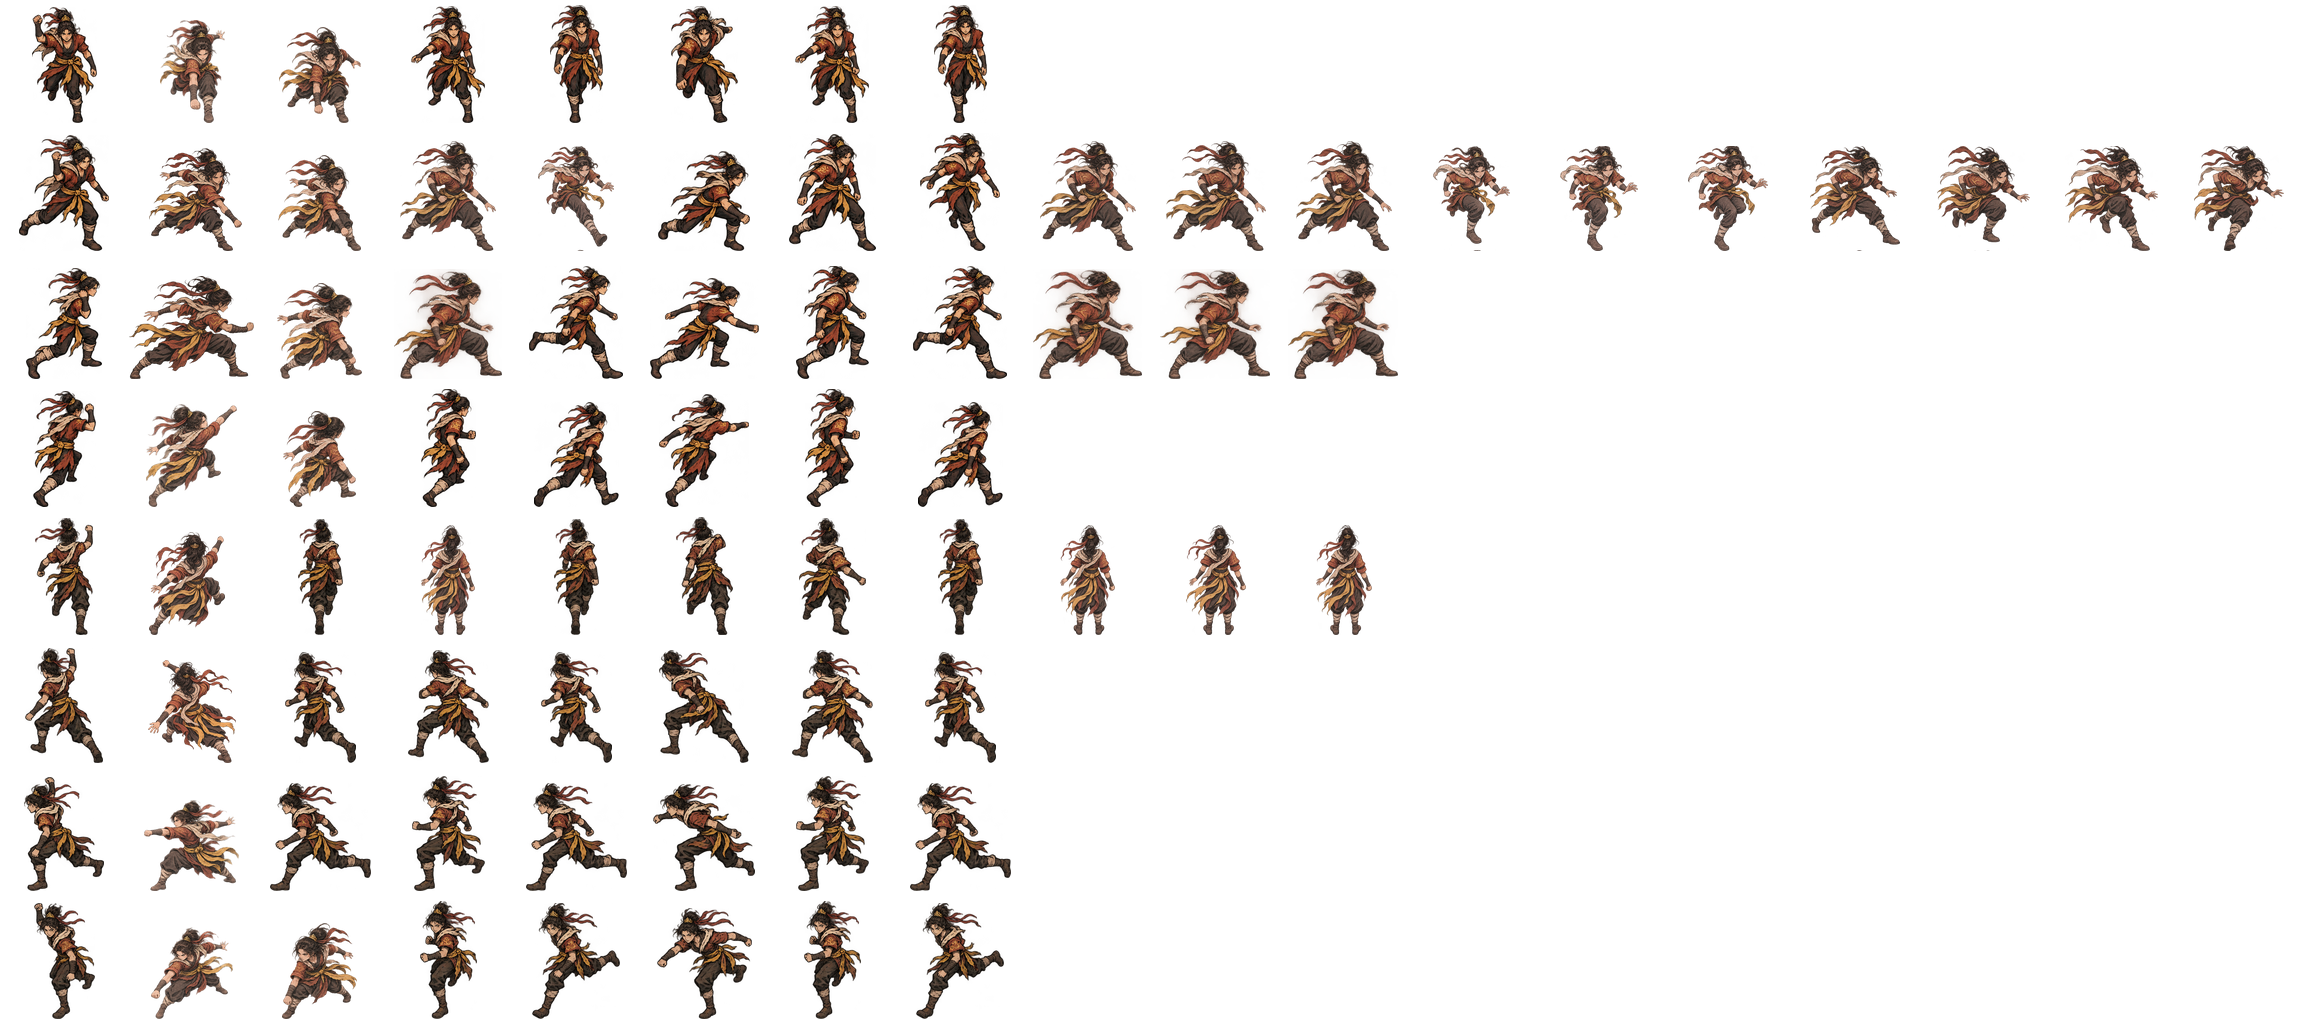
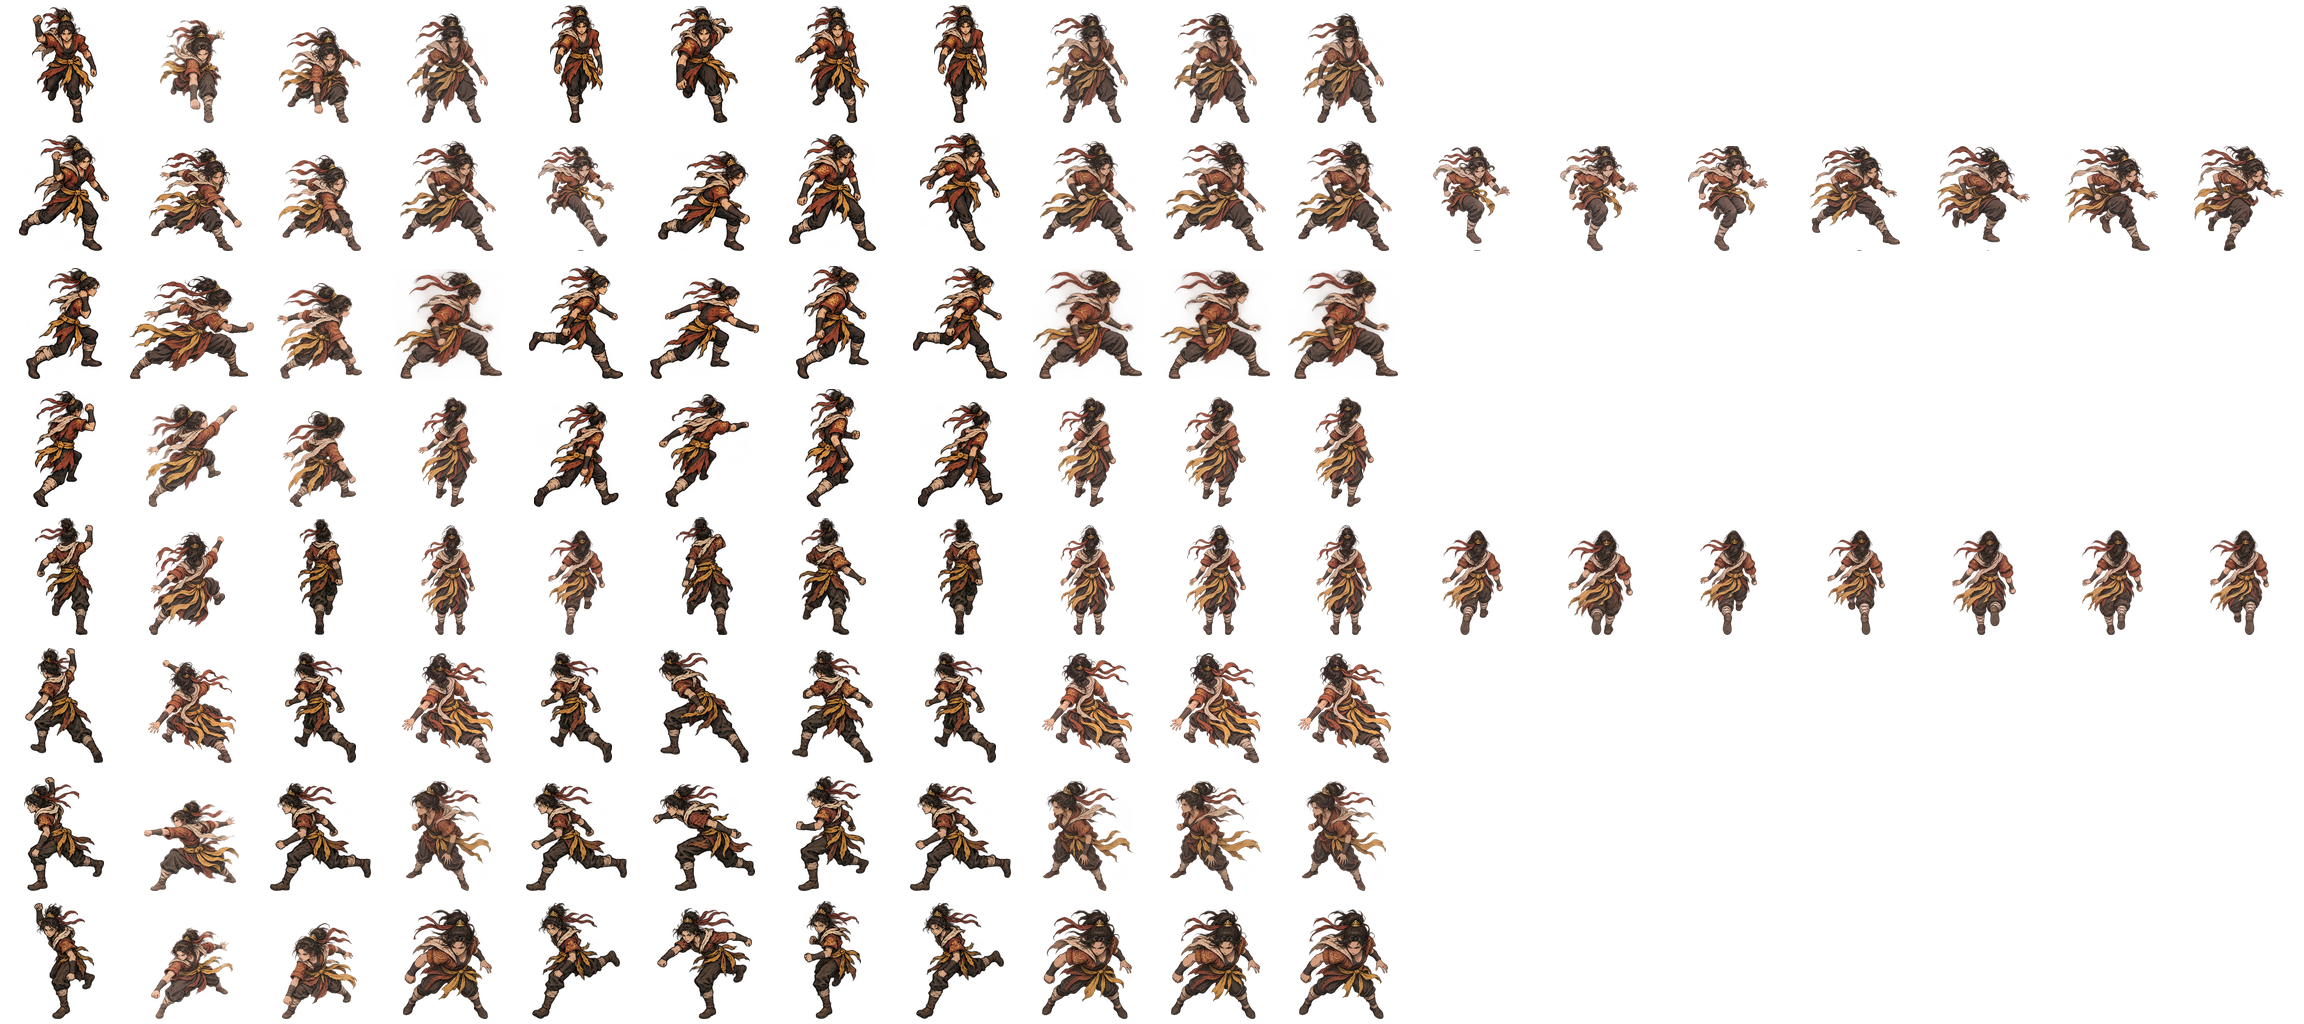
complete the eight Fire guard bearings and north walk cycle

diff --git a/client-unity/UnityProject/Assets/Tests/Editor/StormInkFireAxeAuthoringEditModeTests.cs b/client-unity/UnityProject/Assets/Tests/Editor/StormInkFireAxeAuthoringEditModeTests.cs
@@ -98,12 +98,12 @@ namespace Roguehalla.Client.Tests
             finally { Object.DestroyImmediate(root); }
         }
 
-        [TestCase(1)] [TestCase(2)] [TestCase(4)]
+        [TestCase(0)] [TestCase(1)] [TestCase(2)] [TestCase(3)]
+        [TestCase(4)] [TestCase(5)] [TestCase(6)] [TestCase(7)]
         public void AuthoredGuardBearingsUseFourRegisteredDrawings(int row)
         {
             var config = StormInkFireAxeAuthoring.Load();
             Assert.That(config.GuardStagesFor(row), Is.EqualTo(4));
-            Assert.That(config.GuardStagesFor(0), Is.EqualTo(1));
             var poses = Enumerable.Range(0, 4)
                 .Select(stage => config.Frame(row, StormInkFireAxePose.Guard, stage)).ToArray();
             Assert.That(poses.Distinct().Count(), Is.EqualTo(4));
@@ -116,14 +116,14 @@ namespace Roguehalla.Client.Tests
             }
         }
 
-        [Test]
-        public void SoutheastWalkUsesEightRegisteredDrawingsThroughTheGaitCycle()
+        [TestCase(1)] [TestCase(4)]
+        public void AuthoredWalkBearingsUseEightRegisteredDrawingsThroughTheGaitCycle(int row)
         {
             var config = StormInkFireAxeAuthoring.Load();
-            Assert.That(config.StrideStagesFor(1), Is.EqualTo(8));
+            Assert.That(config.StrideStagesFor(row), Is.EqualTo(8));
             Assert.That(config.StrideStagesFor(2), Is.EqualTo(1));
-            var poses = Enumerable.Range(0, 8).Select(stage => config.Frame(1, StormInkFireAxePose.Stride,
-                Gait.FrameIndex(stage + .25f, config.StrideStagesFor(1)))).ToArray();
+            var poses = Enumerable.Range(0, 8).Select(stage => config.Frame(row, StormInkFireAxePose.Stride,
+                Gait.FrameIndex(stage + .25f, config.StrideStagesFor(row)))).ToArray();
             Assert.That(poses.Distinct().Count(), Is.EqualTo(8));
             foreach (var pose in poses)
             {

diff --git a/client-unity/UnityProject/Assets/Scripts/Presentation/StormInkFireAxeAuthoring.cs b/client-unity/UnityProject/Assets/Scripts/Presentation/StormInkFireAxeAuthoring.cs
@@ -19,6 +19,7 @@ namespace Roguehalla.Client
         {
             [Range(0, Rows - 1)] public int Row;
             public int[] GuardColumns, StrideColumns;
+            public float GuardAxeAngleDelta;
         }
 
         [SerializeField] Texture2D atlas;
@@ -50,6 +51,13 @@ namespace Roguehalla.Client
         {
             int stages = GuardStagesFor(row);
             return stages > 0 ? Mathf.FloorToInt(Mathf.Max(0f, elapsed) * idleFramesPerSecond) % stages : 0;
+        }
+
+        public float GuardAxeAngle(float angle, int row)
+        {
+            foreach (var cycle in directionalCycles)
+                if (cycle.Row == row) return angle + cycle.GuardAxeAngleDelta;
+            return angle;
         }
 
         int[] Cycle(int row, bool walking)

diff --git a/client-unity/UnityProject/Assets/Scripts/Presentation/SpriteActorPresenter.cs b/client-unity/UnityProject/Assets/Scripts/Presentation/SpriteActorPresenter.cs
@@ -628,7 +628,8 @@ namespace Roguehalla.Client
                 bool leftHand = StormInkWeaponMotion.PrimaryHand(weapon.Value) == StormInkWeaponMotion.Hand.Left;
                 bool registered = TryWeaponHand(a, leftHand, out var handUv);
                 Vector3 grip = registered ? BodySocket(a.Body, handUv) : (Vector3)pose.Grip;
-                float angle = pose.Angle;
+                float angle = axeBody != null && fireAxeArt != null && phase == StormInkWeaponMotion.Phase.Guard
+                    ? fireAxeArt.GuardAxeAngle(pose.Angle, poseRow) : pose.Angle;
                 Vector3 supportFromGrip = Vector3.zero;
                 Vector3? drawPalm = null;
                 if (axeBody == null && pose.HasSupport && useWeaponPhase)
